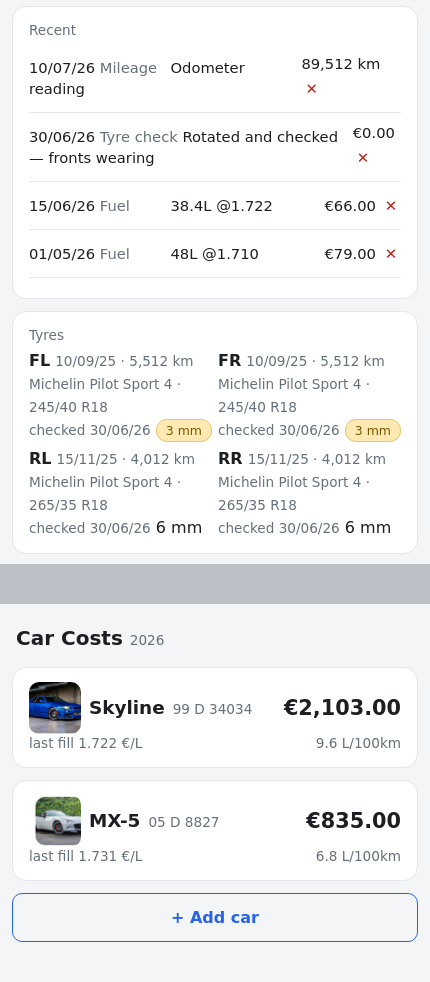
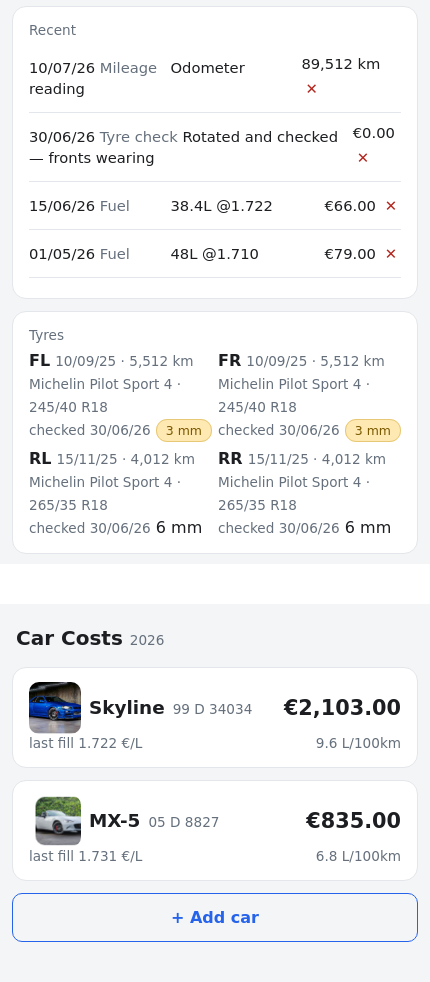
README: drop the standalone tyre-grid image; make the stitch seam transparent
The seam between the stitched panels is now transparent so it shows the page
background instead of a grey band.

Changed region(s): [[0.0, 0.5499, 1.0, 0.6415]]

diff --git a/README.md b/README.md
@@ -84,10 +84,6 @@ cost per year, per km, and what's due next?*
   mm per corner. The grid shows each corner's last check, flagging depths at
   3 mm and below and highlighting anything under the 1.6 mm legal minimum.
 
-<p align="center">
-<img src="docs/tyre-grid.png" width="360" alt="Per-corner tyre grid — brand, size, km since fitting and last tread check, with depths at or below 3 mm flagged amber">
-</p>
-
 **Renewals that close the loop**
 - From 14 days before a due date the car's page prompts *"renewed?"* — one
   dialog captures the new date and (optionally) what you paid. Renew early via